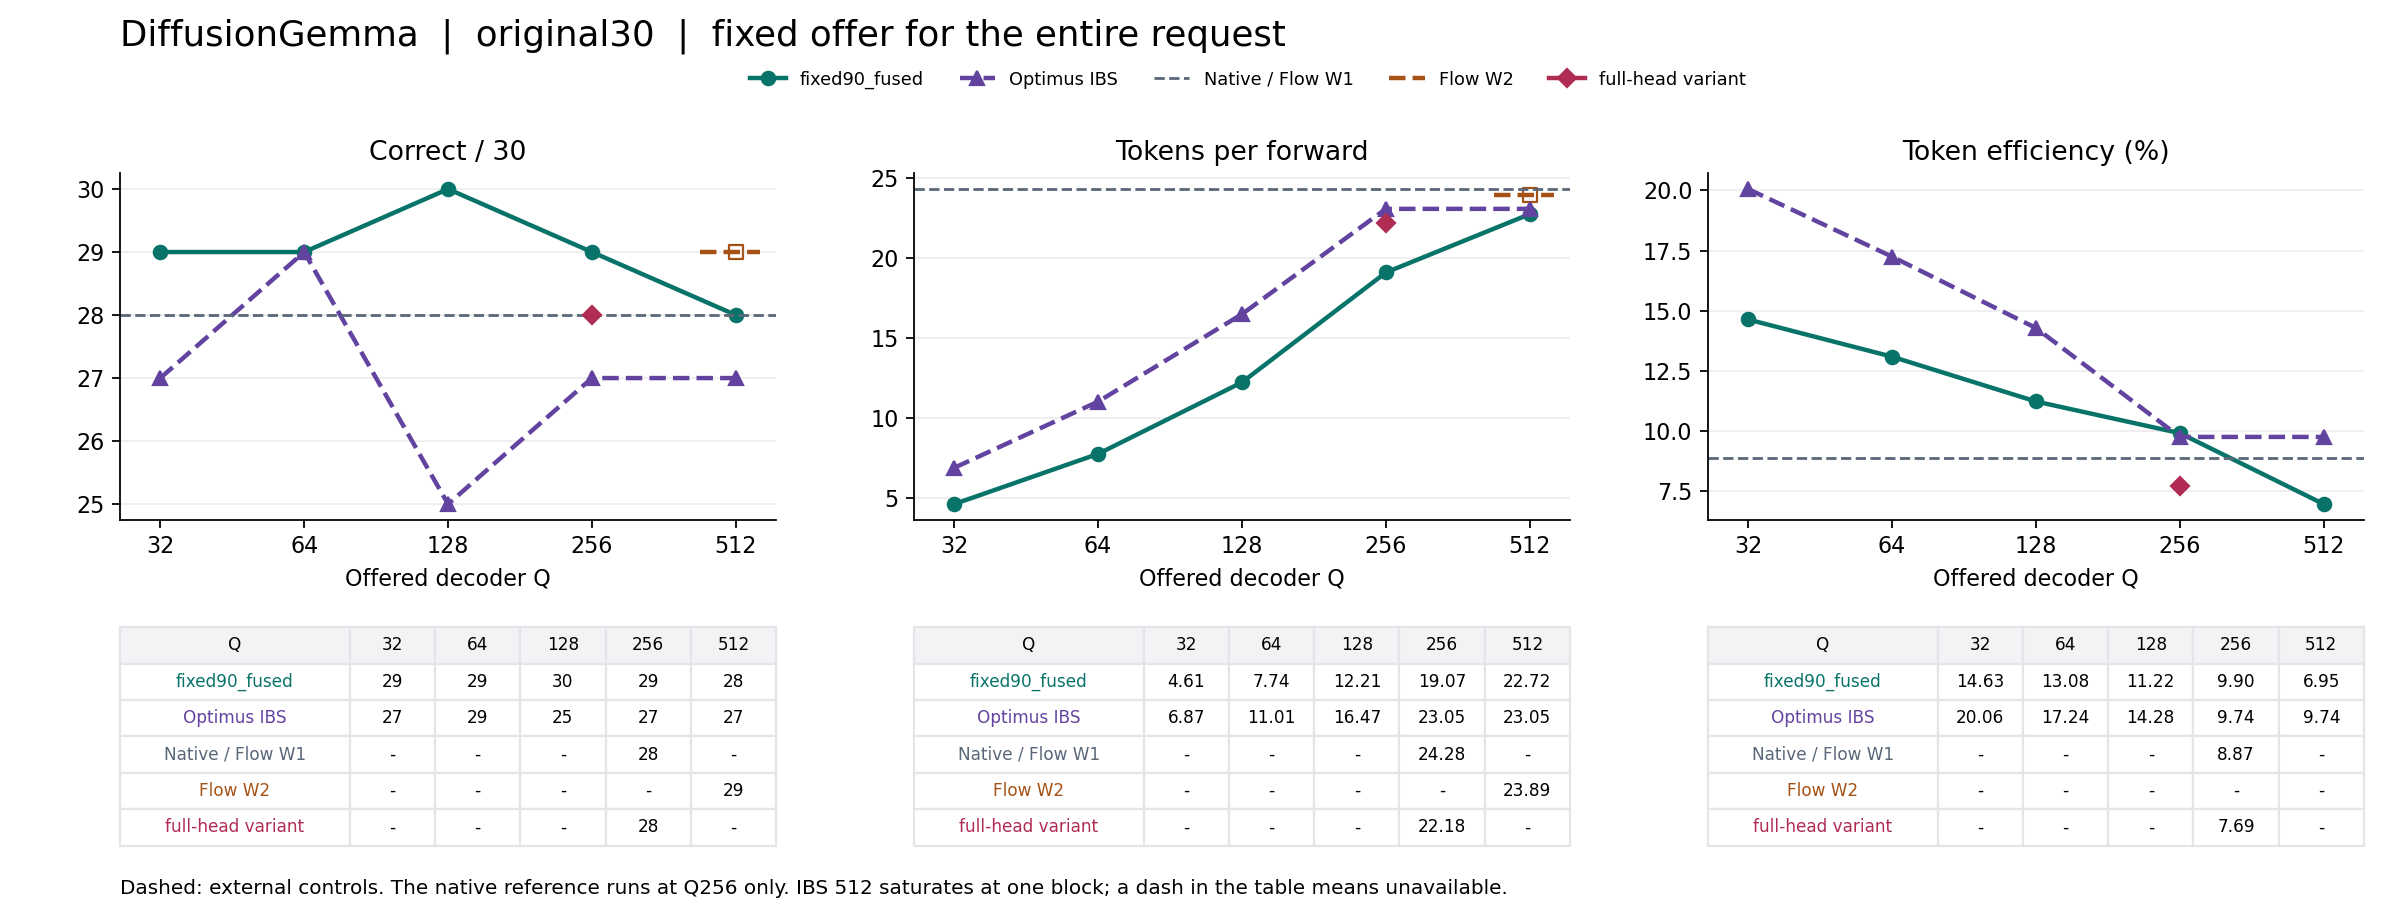
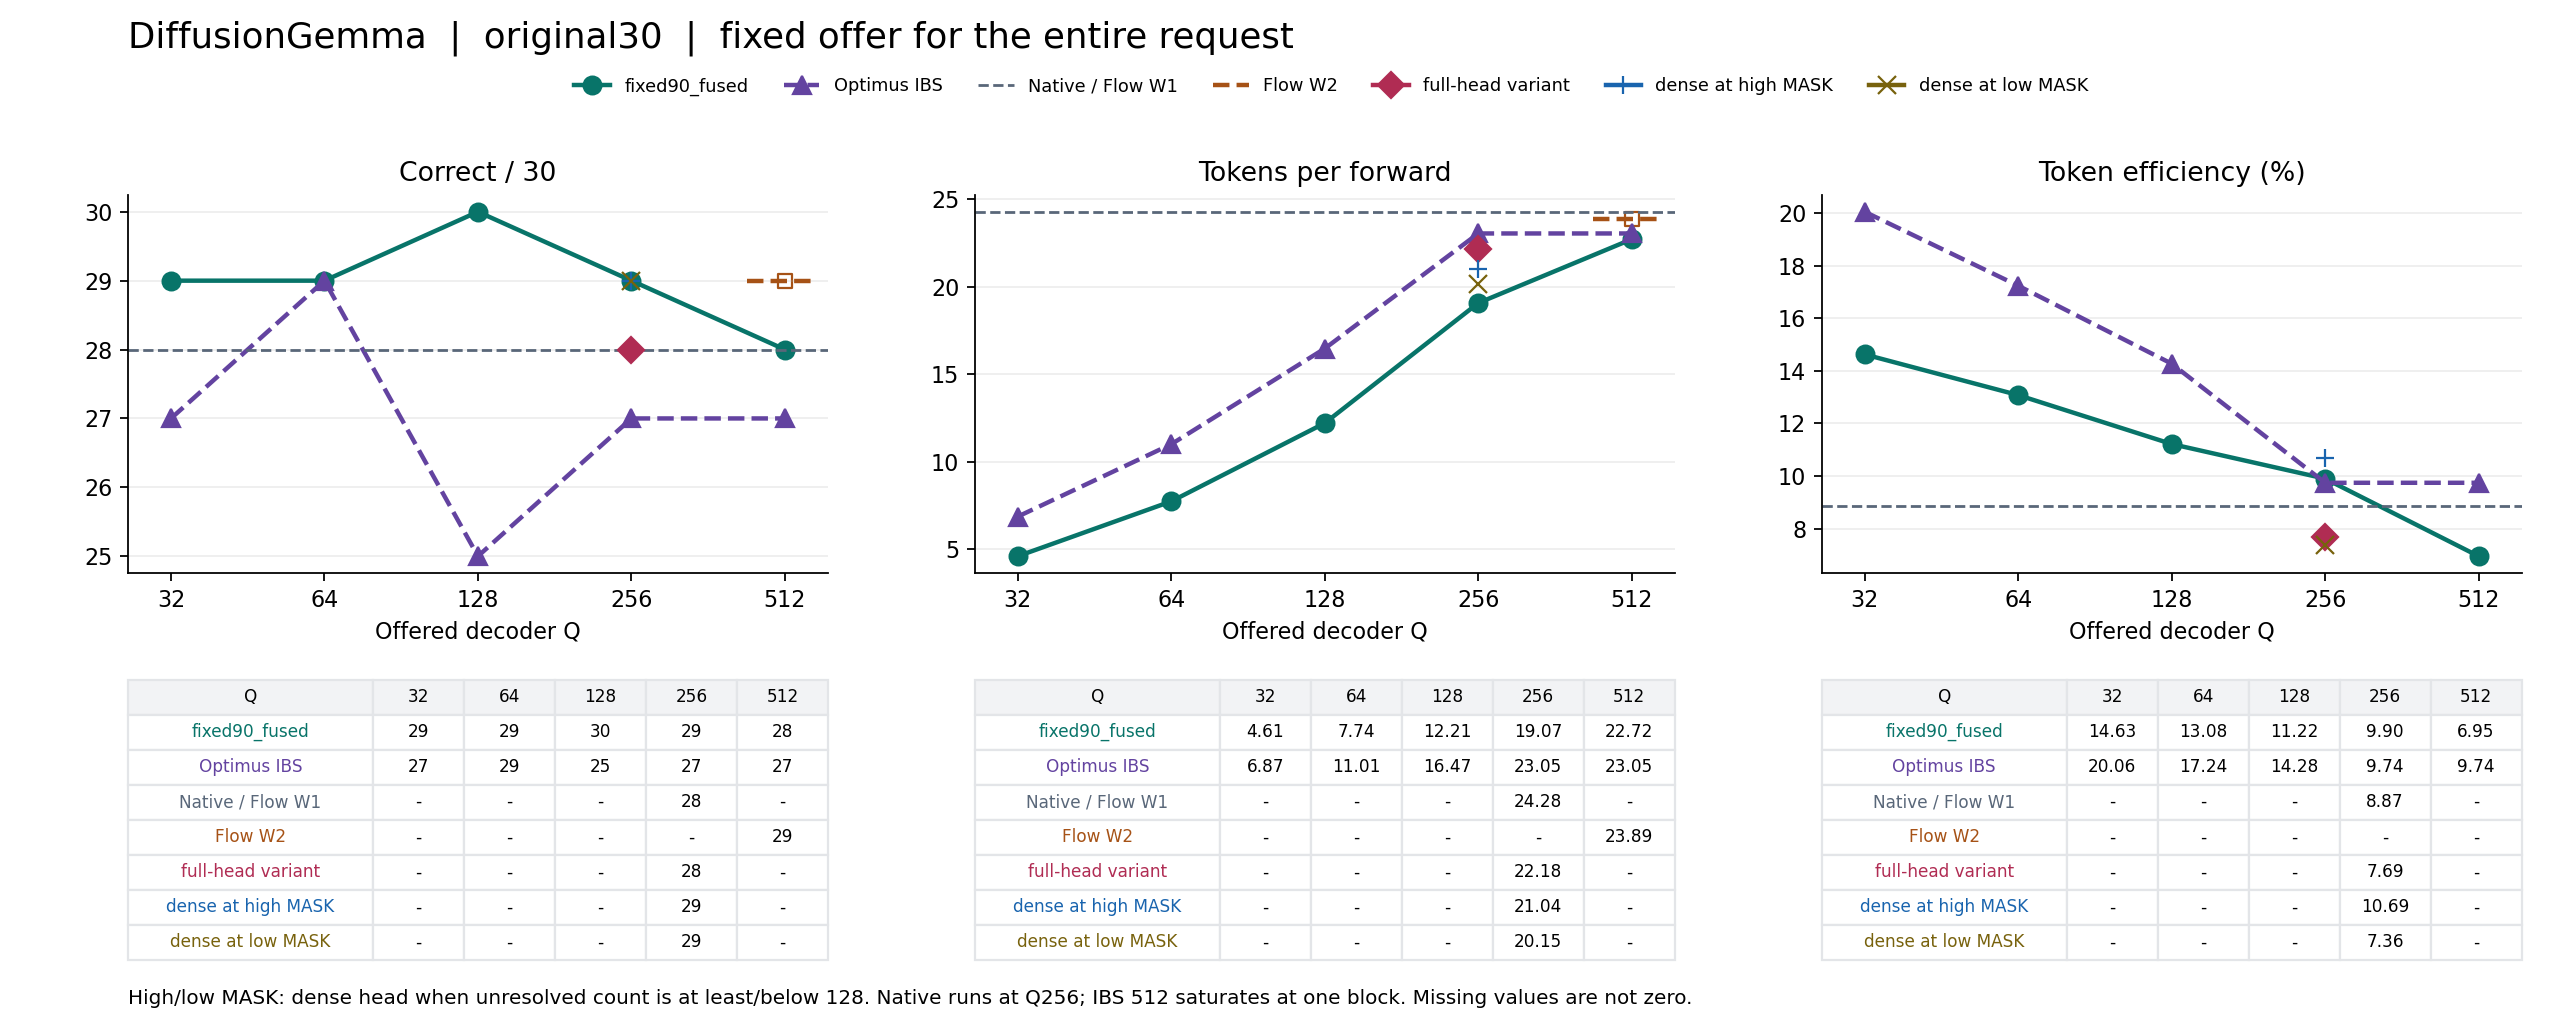
Plot both fixed Q256 density choices and expose same-cohort stop readouts

diff --git a/experiments/t2t/serving_slots/plot_fixed_gemma_profile.py b/experiments/t2t/serving_slots/plot_fixed_gemma_profile.py
@@ -17,18 +17,20 @@ def read(path):
 
 
 def collect():
-    studies = {k:read(FACTORS/k/"paired.csv") for k in ("close","profile-close","capacity")}
+    studies = {k:read(FACTORS/k/"paired.csv") for k in ("close","profile-close","capacity","density")}
     baselines = read(ROOT/"block-history90-matrix.csv")
     rows = []
     for cohort, external, n in COHORTS:
         for c in TIERS:
             file = "profile-close" if c in (128,512) else "close"
-            arms = [(file,"fixed90_fused")]
+            arms = [(file,"fixed90_fused",None)]
             if c==256:
-                arms.append(("capacity","full-head variant"))
-            for study, label in arms:
+                arms.extend([("capacity","full-head variant",None),
+                             ("density","dense at high MASK","C256-density-high"),
+                             ("density","dense at low MASK","C256-density-low")])
+            for study, label, arm in arms:
                 matches = [r for r in studies[study] if r["cohort"]==cohort and
-                           int(r["budget"])==c and r["side"]=="trial"]
+                           int(r["budget"])==c and r["side"]=="trial" and (arm is None or r["arm"]==arm)]
                 if not matches and study=="capacity":
                     continue
                 r, = matches
@@ -65,8 +67,9 @@ def plot(path, rows):
     cohort, = {r["cohort"] for r in rows}
     n, = {r["n"] for r in rows}
     palette={"fixed90_fused":"#087469","Optimus IBS":"#6343a0","Native / Flow W1":"#596779",
-             "Flow W2":"#a65216","full-head variant":"#b02c53"}
-    fig, axes = plt.subplots(1,3,figsize=(15,5.7))
+             "Flow W2":"#a65216","full-head variant":"#b02c53",
+             "dense at high MASK":"#1964ae","dense at low MASK":"#78620d"}
+    fig, axes = plt.subplots(1,3,figsize=(16,6.4))
     handles = {}
     for ax, (col,title,scale) in zip(axes, (("correct",f"Correct / {n}",1),
                 ("macro_TPF","Tokens per forward",1),("token_efficiency","Token efficiency (%)",100))):
@@ -84,13 +87,14 @@ def plot(path, rows):
                 h,=ax.plot([3.75,4.17],y*2,"--",color=color,lw=2)
                 ax.scatter(x,y,marker="s",facecolors="none",edgecolors=color,s=40)
             else:
-                h,=ax.plot(x,y,marker={"fixed90_fused":"o","Optimus IBS":"^","full-head variant":"D"}[name],
-                           ls="--" if name=="Optimus IBS" else "-",color=color,lw=2,ms=6)
+                h,=ax.plot(x,y,marker={"fixed90_fused":"o","Optimus IBS":"^","full-head variant":"D",
+                                       "dense at high MASK":"+","dense at low MASK":"x"}[name],
+                           ls="--" if name=="Optimus IBS" else "-",color=color,lw=2,ms=8)
             handles[name]=h
         ax.set(xticks=range(len(TIERS)),xticklabels=TIERS,xlabel="Offered decoder Q",title=title,xlim=(-.28,4.28))
         ax.spines[["top","right"]].set_visible(False)
         ax.grid(axis="y",alpha=.22)
-    fig.subplots_adjust(left=.05,right=.985,wspace=.21,top=.81,bottom=.43)
+    fig.subplots_adjust(left=.05,right=.985,wspace=.21,top=.81,bottom=.44)
     fig.suptitle(f"DiffusionGemma  |  {cohort}  |  fixed offer for the entire request",fontsize=16,x=.05,ha="left")
     for j, ax in enumerate(axes):
         entries = []
@@ -103,7 +107,7 @@ def plot(path, rows):
                 return "-" if z is None else str(z) if j==0 else f"{(100 if j==2 else 1)*z:.2f}"
             entries.append((name,[val(c) for c in TIERS]))
         table=ax.table(cellText=[[name,*v] for name,v in entries],colLabels=["Q",*TIERS],
-                       colWidths=[.35,.13,.13,.13,.13,.13],cellLoc="center",bbox=[0,-.94,1,.63])
+                       colWidths=[.35,.13,.13,.13,.13,.13],cellLoc="center",bbox=[0,-1.02,1,.74])
         table.auto_set_font_size(False)
         table.set_fontsize(7.6)
         for (i,k), cell in table.get_celld().items():
@@ -112,7 +116,7 @@ def plot(path, rows):
             elif k==0: cell.get_text().set_color(palette[entries[i-1][0]])
     fig.legend(handles.values(),handles.keys(),loc="upper center",bbox_to_anchor=(.52,.94),
                ncol=len(handles),frameon=False,fontsize=8)
-    fig.text(.05,.02,"Dashed: external controls. The native reference runs at Q256 only. IBS 512 saturates at one block; a dash in the table means unavailable.",fontsize=9)
+    fig.text(.05,.02,"High/low MASK: dense head when unresolved count is at least/below 128. Native runs at Q256; IBS 512 saturates at one block. Missing values are not zero.",fontsize=9)
     fig.savefig(path,dpi=160,facecolor="white")
     plt.close(fig)
 

diff --git a/experiments/t2t/serving_slots/controls/gemma-factors/fullstop/readout.py b/experiments/t2t/serving_slots/controls/gemma-factors/fullstop/readout.py
@@ -1,17 +1,27 @@
 """Read-only receipt audit; no model, prompt, completions or device access."""
+import argparse
 from collections import Counter, defaultdict
 import csv
 import json
 from pathlib import Path
 import random
 import statistics
-import sys
 
-dense = '--dense-stop' in sys.argv
+parser = argparse.ArgumentParser(description=__doc__)
+parser.add_argument('--dense-stop', action='store_true')
+parser.add_argument('--complete', action='store_true')
+parser.add_argument('--pairs-csv', action='store_true')
+parser.add_argument('--cohort', choices=('original30','new60','frozen90'), default='frozen90')
+args=parser.parse_args()
+if args.pairs_csv and (not args.complete or args.cohort!='frozen90'):
+    parser.error('The per-request archive requires the full completed study')
+dense = args.dense_stop
 run = 'dense-stop-1128' if dense else 'fullstop-1128'
 root = Path('/gs/results')/run
 qual = {0,10,20}
 target = {256:set(range(90))} if dense else {128:qual,256:set(range(90)),512:set(range(90))}
+scope = {'original30':range(30),'new60':range(30,90),'frozen90':range(90)}[args.cohort]
+target = {k:v.intersection(scope) for k,v in target.items() if v.intersection(scope)}
 rows = {}
 codes = {'partial':'P','drain':'D','verify':'V','absent':'A','rebuild':'R'}
 source = None
@@ -20,6 +30,8 @@ manifest = json.loads((Path('/gs/runtime')/run/'repo/benchmarks/frozen90/manifes
 for path in root.glob('C*.json'):
     r = json.loads(path.read_text())
     c,i,on = r['budget'],r['index'],r['fullstop']
+    if i not in scope:
+        continue
     gate = 'half' if c==512 else 'off'
     assert path.name == (f'C256-dense-stop{int(on)}-{i:02d}.json' if dense
                          else f'C{c}-gate{gate}-fullstop{int(on)}-{i:02d}.json')
@@ -97,6 +109,8 @@ for c,indices in target.items():
         pair_rows.append(p)
     n=len(pairs)
     out=dict(tier=c,matched=n,expected=len(indices),sealed=[sum((c,i,h) in rows for i in indices) for h in (0,1)])
+    if dense or args.cohort!='frozen90':
+        out['cohort']=args.cohort
     if n:
         replay_n, replay_different = 0, []
         for a,_ in pairs:
@@ -140,9 +154,9 @@ for c,indices in target.items():
                    score_flip=[[a['index'],a['correct'],b['correct']] for a,b in pairs
                                if 'correct' in a and 'correct' in b and a['correct']!=b['correct']])
     print(json.dumps(out),flush=True)
-if '--complete' in sys.argv:
+if args.complete:
     assert len(rows)==2*sum(map(len,target.values())) and all(type(r.get('correct')) is bool for r in rows.values()), 'incomplete'
-    if '--pairs-csv' in sys.argv:
+    if args.pairs_csv:
         target_file=Path(__file__).with_name('dense-pairs.csv' if dense else 'pairs.csv')
         with target_file.with_suffix('.pending').open('w',newline='') as stream:
             w=csv.DictWriter(stream,fieldnames=pair_rows[0],lineterminator="\n")

diff --git a/tests/test_cross_race_report.py b/tests/test_cross_race_report.py
@@ -268,7 +268,11 @@ def test_gemma_published_fixed_offers_and_denominators():
     data=collect()
     for cohort,_,n in COHORTS:
         part=[r for r in data if r["cohort"]==cohort]
-        assert len(part)==13 and all(r["n"]==n for r in part)
+        assert len(part)==15 and all(r["n"]==n for r in part)
+        points=[r for r in part if r["method"].startswith("dense at ")]
+        assert len(points)==2 and all(r["budget"]==r["peak_decoder_Q"]==256 for r in points)
+        if n==90:
+            assert {r["method"]:r["correct"] for r in points}=={"dense at high MASK":83,"dense at low MASK":84}
         assert {r["budget"] for r in part if r["method"]=="Optimus IBS"}==set(TIERS)
         assert next(r for r in part if r["method"]=="Flow W2")["token_efficiency"] is None
         for r in part:
